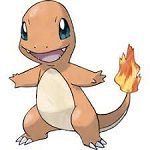
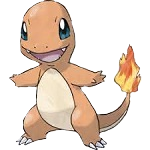
fixed charmander white bg and adjusted some of the text and button alignment

diff --git a/main.py b/main.py
@@ -82,10 +82,10 @@ class Game:
         selection = True
 
         title = self.font.render('Game Over', True, BLACK)
-        title_rect = title.get_rect(x=200, y=10)
+        title_rect = title.get_rect(x=230, y=10)
 
-        play_button = Button(200, 50, 200, 50, WHITE, BLACK, 'New Game', 32)
-        quit_button = Button(200, 110, 100, 50, WHITE, BLACK, 'Quit', 32)
+        play_button = Button(215, 50, 200, 50, WHITE, BLACK, 'New Game', 32)
+        quit_button = Button(260, 110, 100, 50, WHITE, BLACK, 'Quit', 32)
         while selection:
             for event in pygame.event.get():
                 if event.type == pygame.QUIT:
@@ -147,10 +147,10 @@ class Game:
         intro = True
 
         title = self.font.render('Pokemon', True, BLACK)
-        title_rect = title.get_rect(x=200, y=10)
+        title_rect = title.get_rect(x=250, y=10)
 
-        play_button = Button(200, 50, 100, 50, WHITE, BLACK, 'Play', 32)
-        quit_button = Button(200, 110, 100, 50, WHITE, BLACK, 'Quit', 32)
+        play_button = Button(260, 50, 100, 50, WHITE, BLACK, 'Play', 30)
+        quit_button = Button(260, 110, 100, 50, WHITE, BLACK, 'Quit', 30)
         while intro:
             for event in pygame.event.get():
                 if event.type == pygame.QUIT:
@@ -234,7 +234,7 @@ class Game:
             enemies_pokemon = self.pokemon_generation(True, 400, 50)
         e_current_health = enemies_pokemon.health
         title = self.font.render('Battle', True, BLACK)
-        title_rect = title.get_rect(x=200, y=10)
+        title_rect = title.get_rect(x=270, y=10)
 
         p_health = self.font.render('HP: {}/{}'.format(current_health, self.player_pokemon.health), True, BLACK)
         p_health_rect = p_health.get_rect(x=270, y=250)
